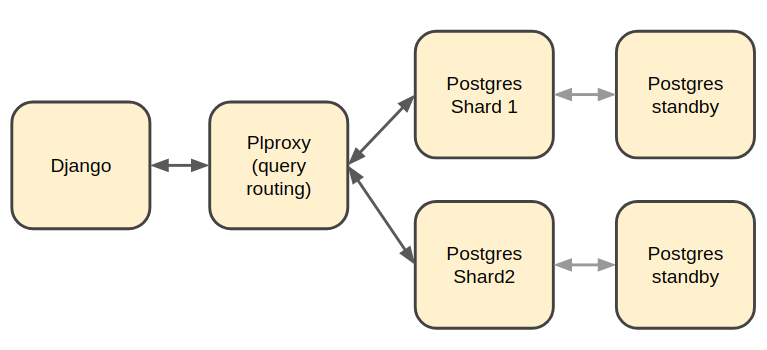
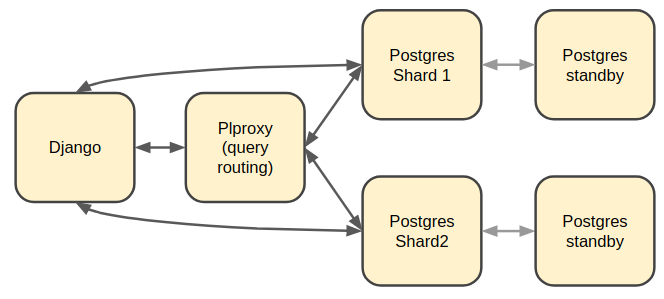
update db docs with more detail

Changed region(s): [[0.0, 0.0301, 0.994, 0.9632], [0.0602, 0.4515, 0.1506, 0.5117], [0.1807, 0.7224, 0.3012, 0.7525]]

diff --git a/docs/databases.rst b/docs/databases.rst
@@ -187,12 +187,28 @@ of the primary node.
 
 In order to maintain the SQL function naming the new plproxy cluster must be in a separate database.
 
-Steps to setup:
+.. image:: images/django_db_sharded_standbys.png
+
+**Example usage**
+
+.. code-block:: python
+
+    # this will connect to the shard standby node directly
+    case = CommCareCaseSQL.objects.partitioned_get(case_id)
+
+    # this will call the `get_cases_by_id` function on the 'standby' proxy which in turn
+    # will query the shard standby nodes
+    cases = CaseAccessor(domain).get_cases(case_ids)
+
+These examples assume the standby routing is active as described in the `Routing queries to standbys`_
+section below.
+
+**Steps to setup**
 
 1. Add all the standby shard databases to the Django `DATABASES` setting as described above.
 
-2. Create a new database for the standby plproxy cluster configuration and functions and add it to `DATABASES`
-as shown below:
+2. Create a new database for the standby plproxy cluster configuration and SQL accessor functions
+and add it to `DATABASES` as shown below:
 
 .. code-block:: python
 
@@ -205,7 +221,8 @@ as shown below:
         }
     }
 
-3. Run the Django migrations to create the SQL functions in the new standby proxy database.
+3. Run the `configure_pl_proxy_cluster` management command to create the config on the 'standby' database.
+4. Run the Django migrations to create the tables and SQL functions in the new standby proxy database.
 
 Routing queries to standbys
 ---------------------------
@@ -218,7 +235,8 @@ route queries to them the DB router must be told to do so. This can be done it o
 
     export READ_FROM_PLPROXY_STANDBYS=1
 
-This will route ALL read queries to the shard standbys.
+This will route ALL read queries to the shard standbys. This is mostly useful when running a process like
+pillowtop that does is asynchronous.
 
 2. Via a Django decorator / context manager
 
